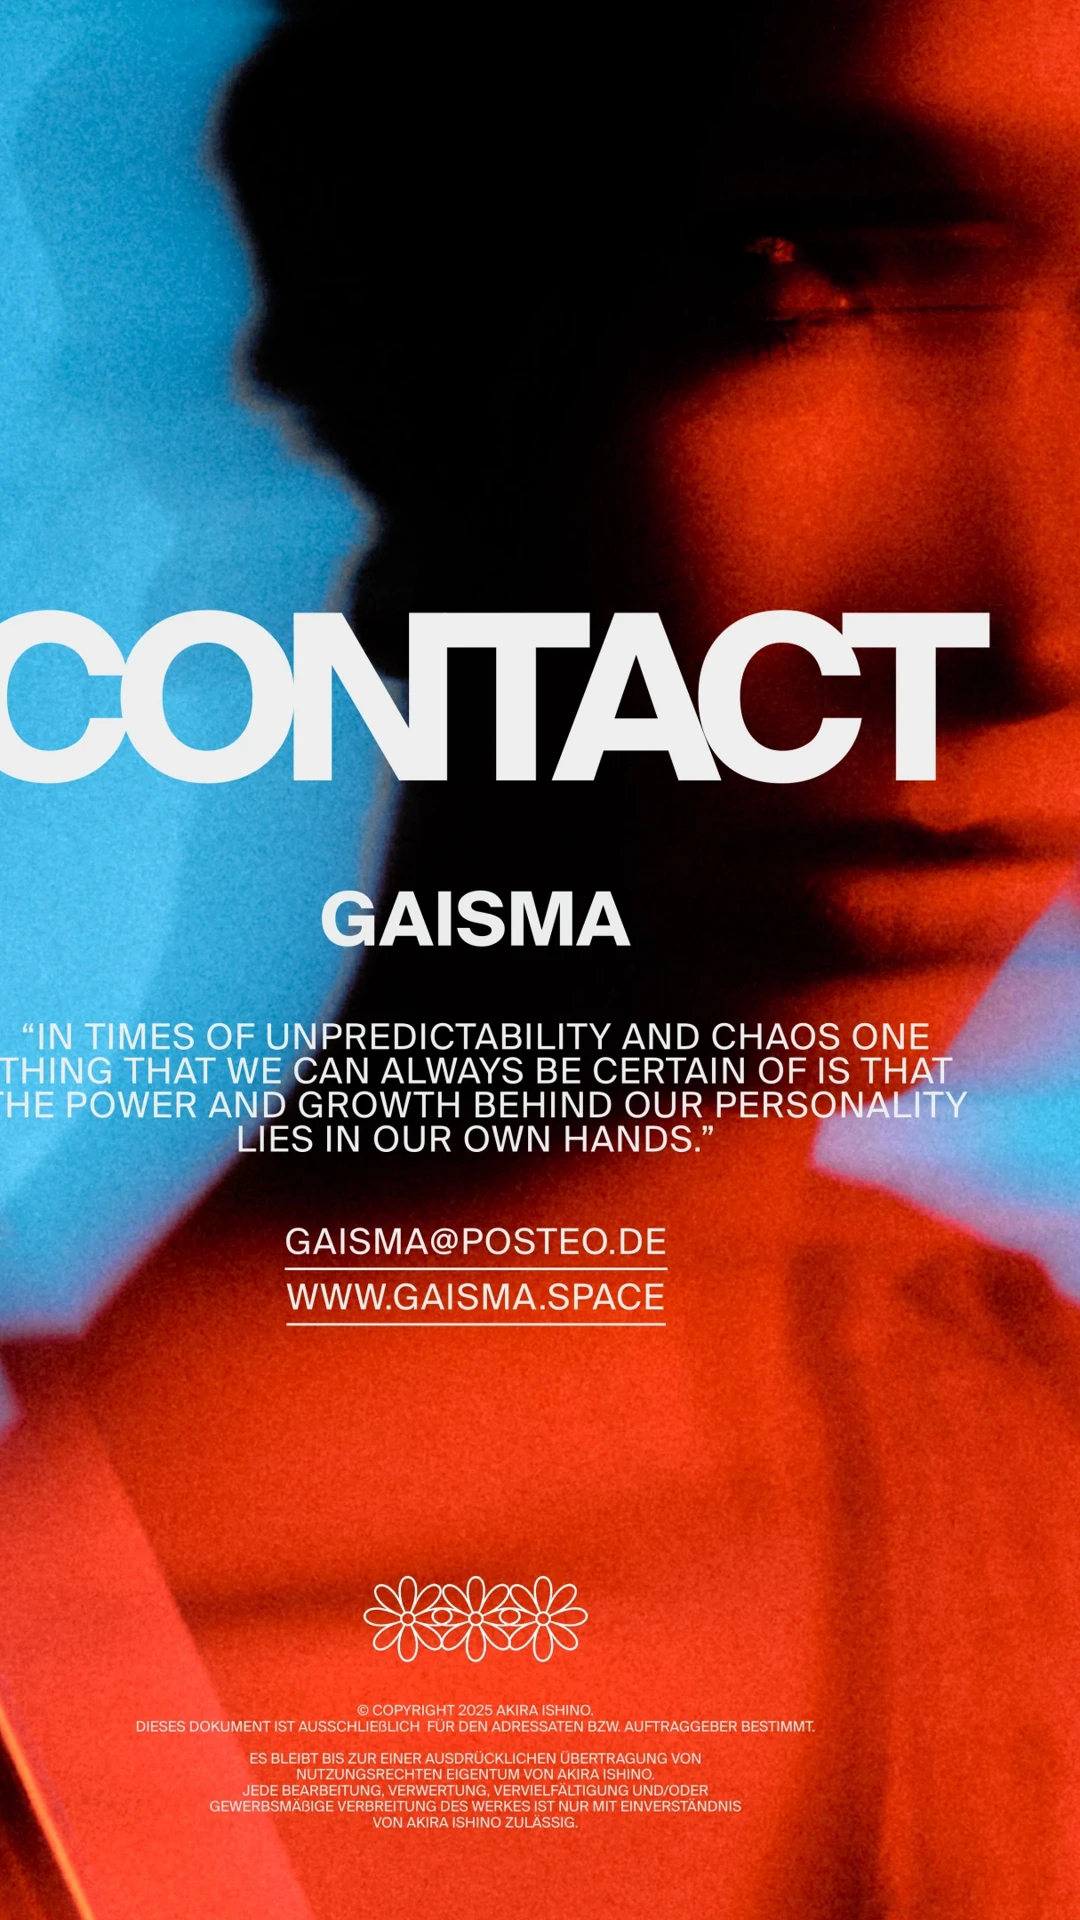
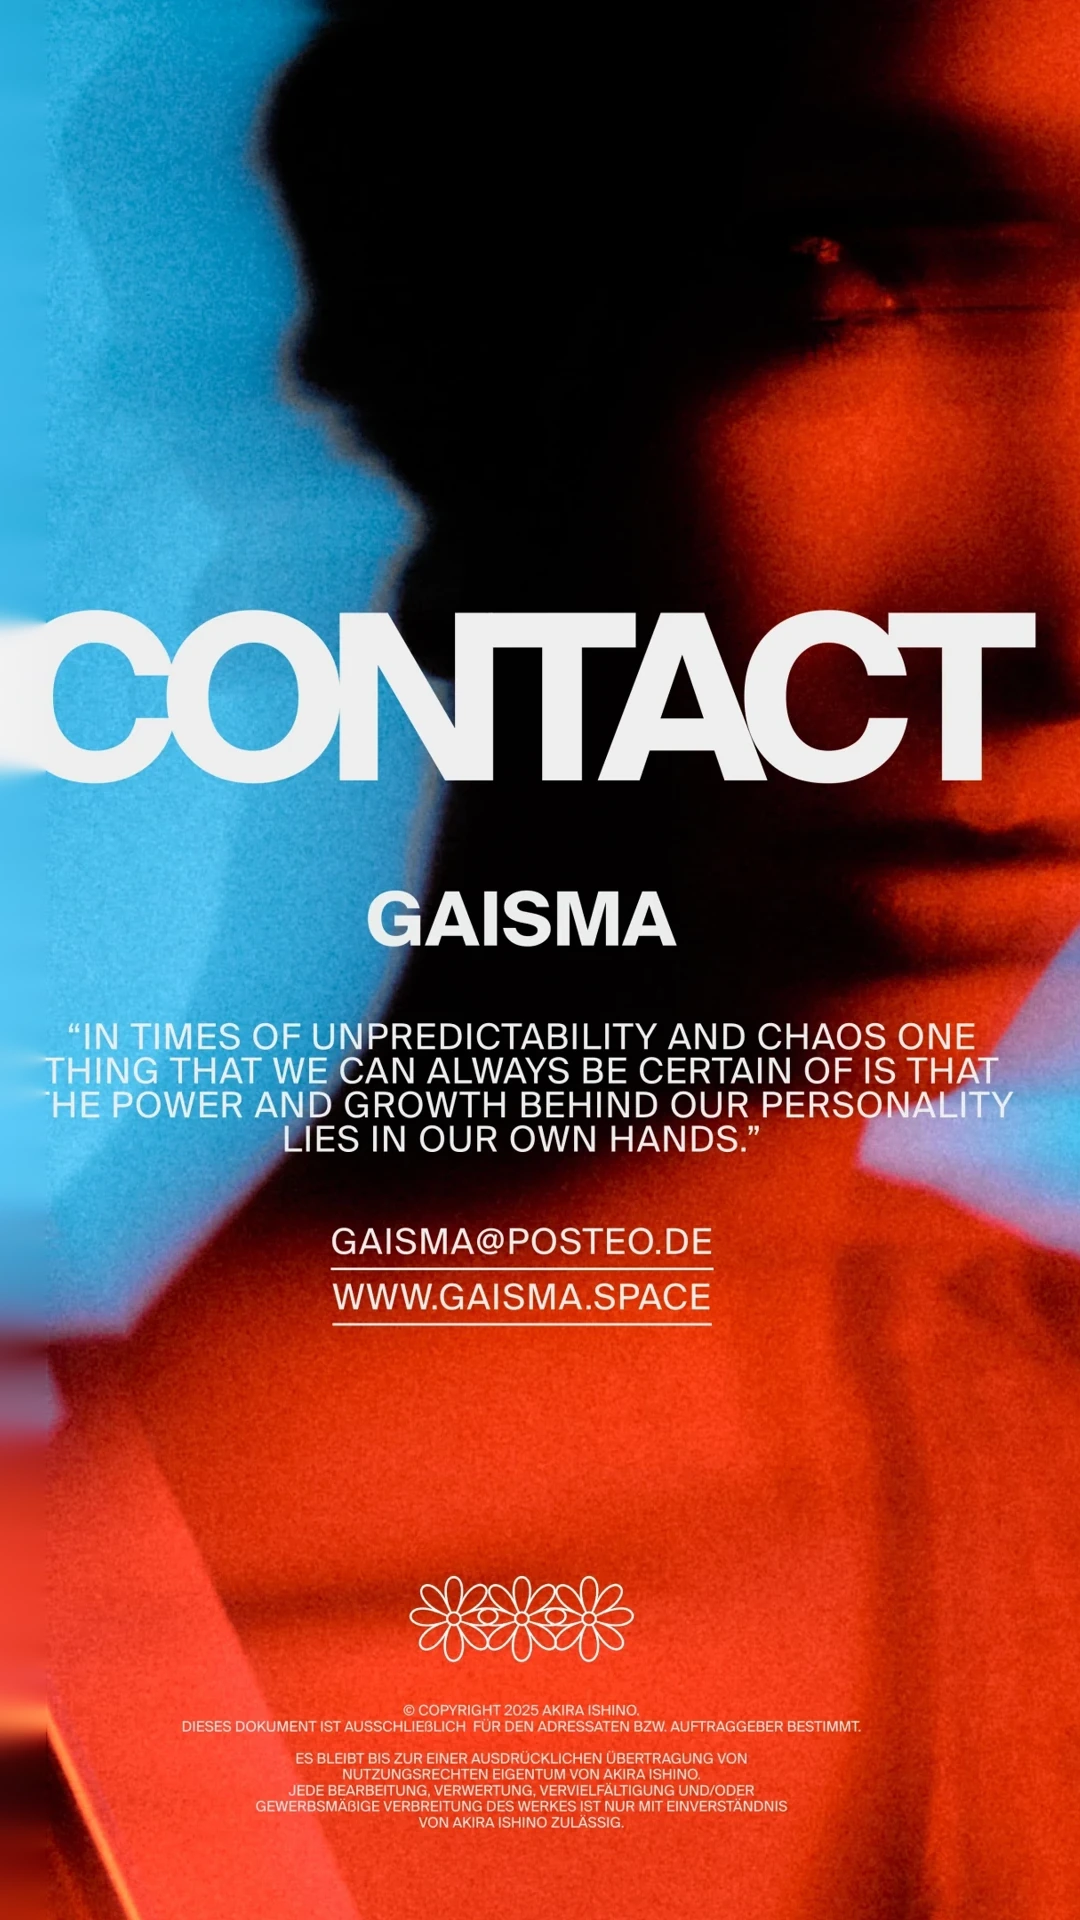
Fix CONTACT text getting cut off on the mobile contact page
The mobile hero image had the word CONTACT (and part of the quote text)
clipped flush against the left edge with almost no margin on the right,
both in the source image itself and in how it was cropped on screen.

- Re-composited the mobile image so CONTACT and the quote text sit with
  even breathing room on both sides (the previously fully-clipped "C"
  was reconstructed since no source pixels existed for it).
- Switched the mobile layout from a full-bleed object-cover crop to a
  width-constrained, aspect-ratio-preserving box (like the desktop
  version already does), so narrow phone viewports no longer crop the
  sides of the image at all.
- Repositioned the invisible mailto tap target to match the shifted
  text.

Claude-Session: https://claude.ai/code/session_01E1QXDnTNKk2QJ1t6YtVCqY

diff --git a/app/contact/page.tsx b/app/contact/page.tsx
@@ -28,21 +28,26 @@ export default function ContactPage() {
         />
       </div>
 
-      {/* Mobile: portrait crop — face + all text visible */}
-      <div className="md:hidden relative w-full h-full">
+      {/* Mobile: full portrait design, no side cropping */}
+      <div
+        className="md:hidden relative"
+        style={{
+          width: "min(100%, calc((100vh - 50px) * 1080 / 1920))",
+          aspectRatio: "1080 / 1920",
+        }}
+      >
         <Image
           src="/contact-page-mobile.webp"
           alt="Contact GAISMA"
           fill
-          className="object-cover"
-          style={{ objectPosition: "left center" }}
+          className="object-contain"
           priority
         />
         {/* Transparent link over GAISMA@POSTEO.DE on mobile */}
         <a
           href="mailto:gaisma@posteo.de"
           className="absolute cursor-pointer"
-          style={{ left: "36%", top: "63%", width: "48%", height: "5%" }}
+          style={{ left: "29%", top: "63%", width: "38%", height: "6%" }}
           aria-label="Email GAISMA"
         />
       </div>
